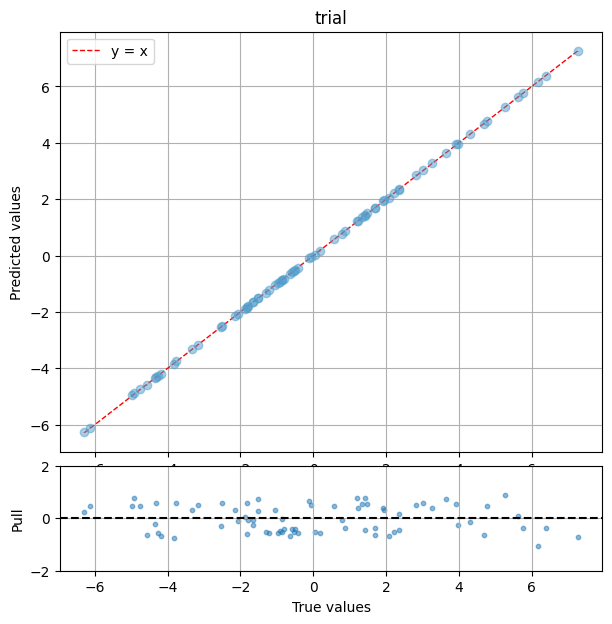
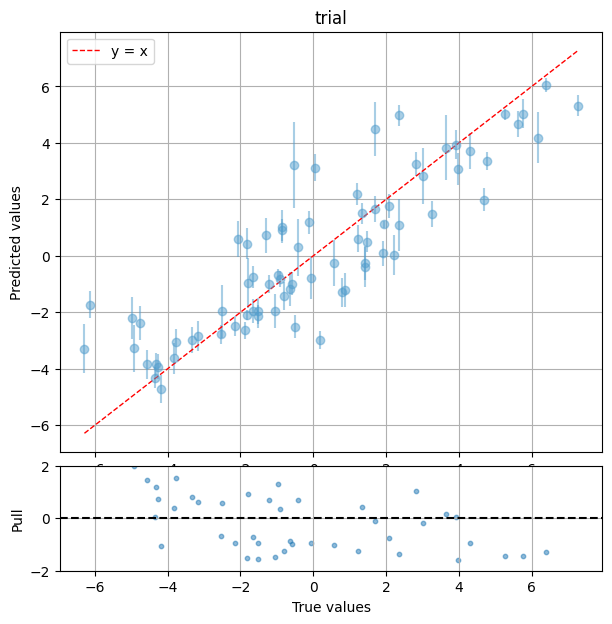
everything works!

diff --git a/examples/fnn_example.py b/examples/fnn_example.py
@@ -49,20 +49,20 @@ def main():
     bde = BdeBuilder(sizes, n_members=5, epochs=500, optimizer=optax.adam(1e-2))
     print(len(bde.members))
     # fit + predict
-    # bde.fit(x=data.x, y=data.y, epochs=500)
-    # bde_pred = bde.predict_ensemble(test_set.x, include_members=True)
-    # # print(out["ensemble_mean"])
-    # # print(out["ensemble_var"])
-    #
-    # print("keys:", list(bde_pred.keys()))  # ['ensemble_mean', 'ensemble_var']
-    # print("mean shape:", bde_pred["ensemble_mean"].shape)
-    # print("var shape:", bde_pred["ensemble_var"].shape)
-    #
-    # plot_pred_vs_true(y_pred=bde_pred["ensemble_mean"],
-    #                   y_true=test_set.y,
-    #                   y_pred_err=bde_pred["ensemble_var"],
-    #                   title="trial",
-    #                   savepath="to_be_deleted")
+    bde.fit(x=train_set.x, y=train_set.y, epochs=500)
+    bde_pred = bde.predict_ensemble(test_set.x, include_members=True)
+    # print(bde_pred["ensemble_mean"])
+    # print(bde_pred["ensemble_var"])
+
+    print("keys:", list(bde_pred.keys()))  # ['ensemble_mean', 'ensemble_var']
+    print("mean shape:", bde_pred["ensemble_mean"].shape)
+    print("var shape:", bde_pred["ensemble_var"].shape)
+
+    plot_pred_vs_true(y_pred=bde_pred["ensemble_mean"],
+                      y_true=test_set.y,
+                      y_pred_err=bde_pred["ensemble_var"],
+                      title="trial",
+                      savepath="to_be_deleted")
 
 
 if __name__ == "__main__":

diff --git a/bde/training/trainer.py b/bde/training/trainer.py
@@ -120,8 +120,8 @@ class FnnTrainer:
         - loss must implement Loss API (apply_reduced)
         """
         # lazy defaults TODO this is also not needed
-        # if loss is None:
-        #     loss = LossMSE()
+        if loss is None:
+            loss = self.default_loss()
 
         # init params #TODO: i think this is not needed
         # if getattr(model, "params", None) is None:
@@ -167,3 +167,7 @@ class FnnTrainer:
     @staticmethod
     def default_optimizer():
         return optax.adam(learning_rate=0.01)
+
+    @staticmethod
+    def default_loss():
+        return LossMSE()

diff --git a/bde/bde_builder.py b/bde/bde_builder.py
@@ -59,7 +59,7 @@ class BdeBuilder(Fnn, FnnTrainer):
         """
 
         for member in self.members:
-            super().train(model=member, x=x, y=y, optimizer=self.optimizer, epochs=epochs or self.epochs)
+            super().train(model=member, x=x, y=y, optimizer=self.optimizer, epochs=epochs)
         return self
 
     def predict_ensemble(self, x, include_members: bool = False):
